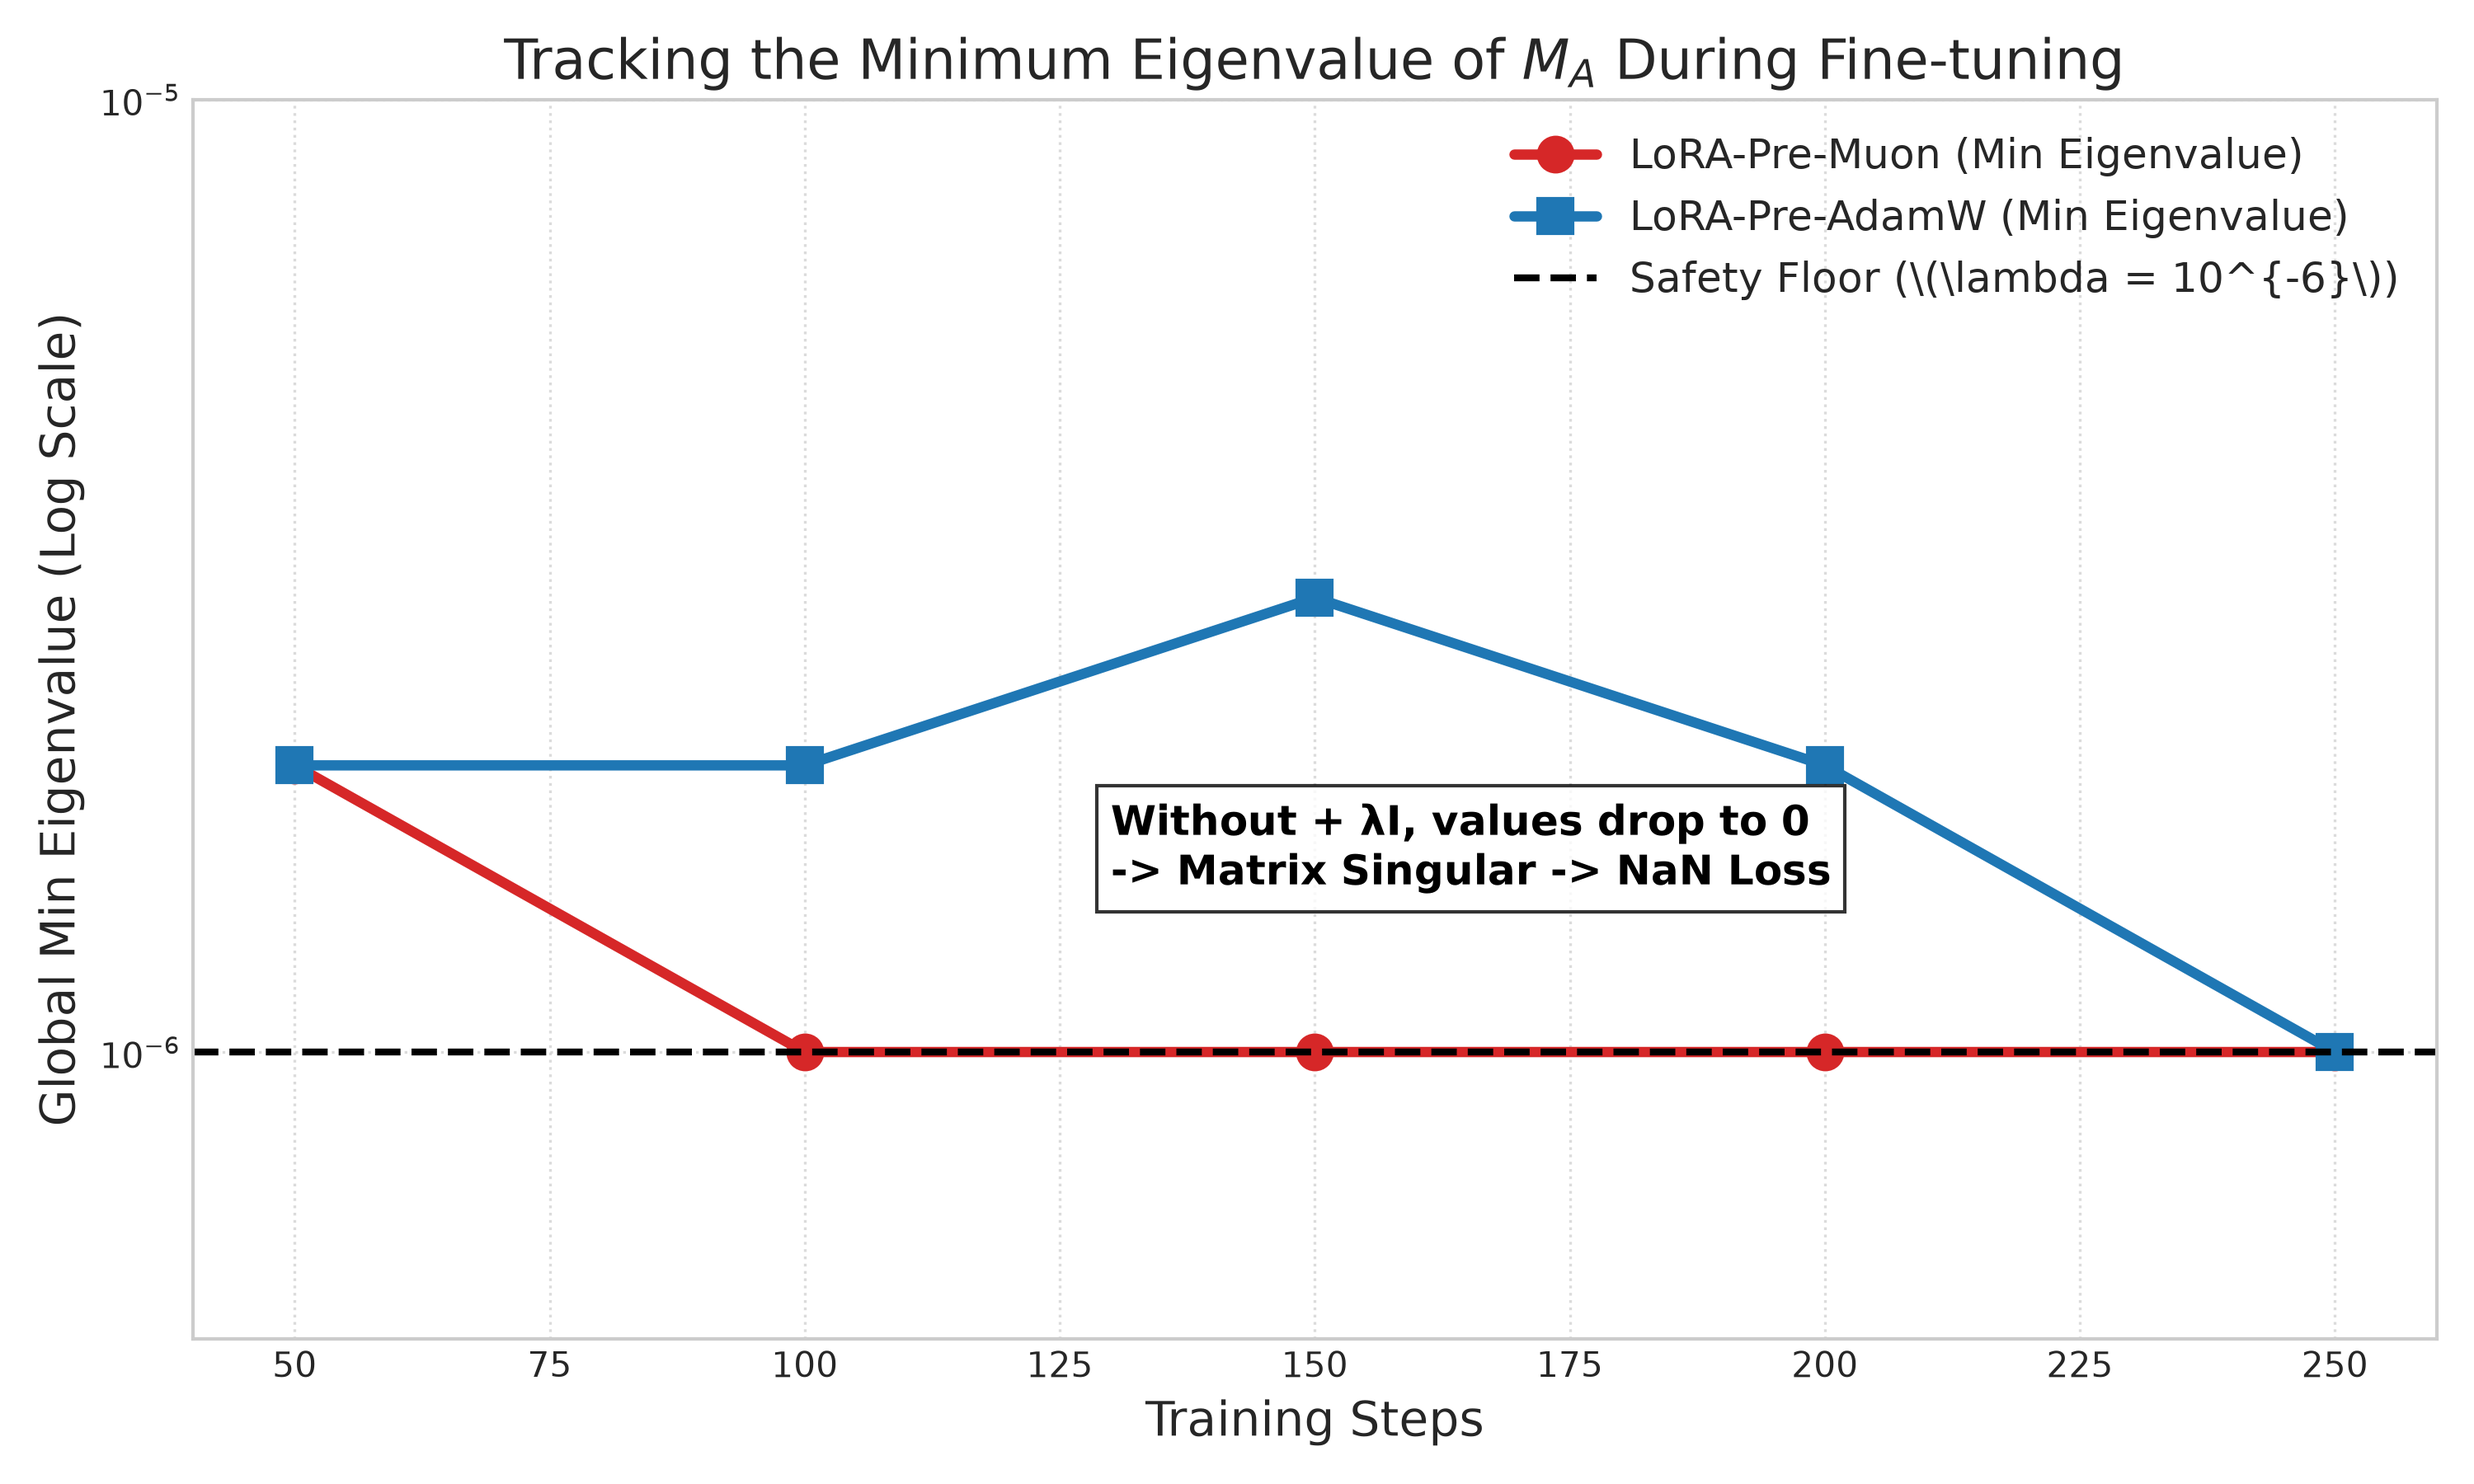
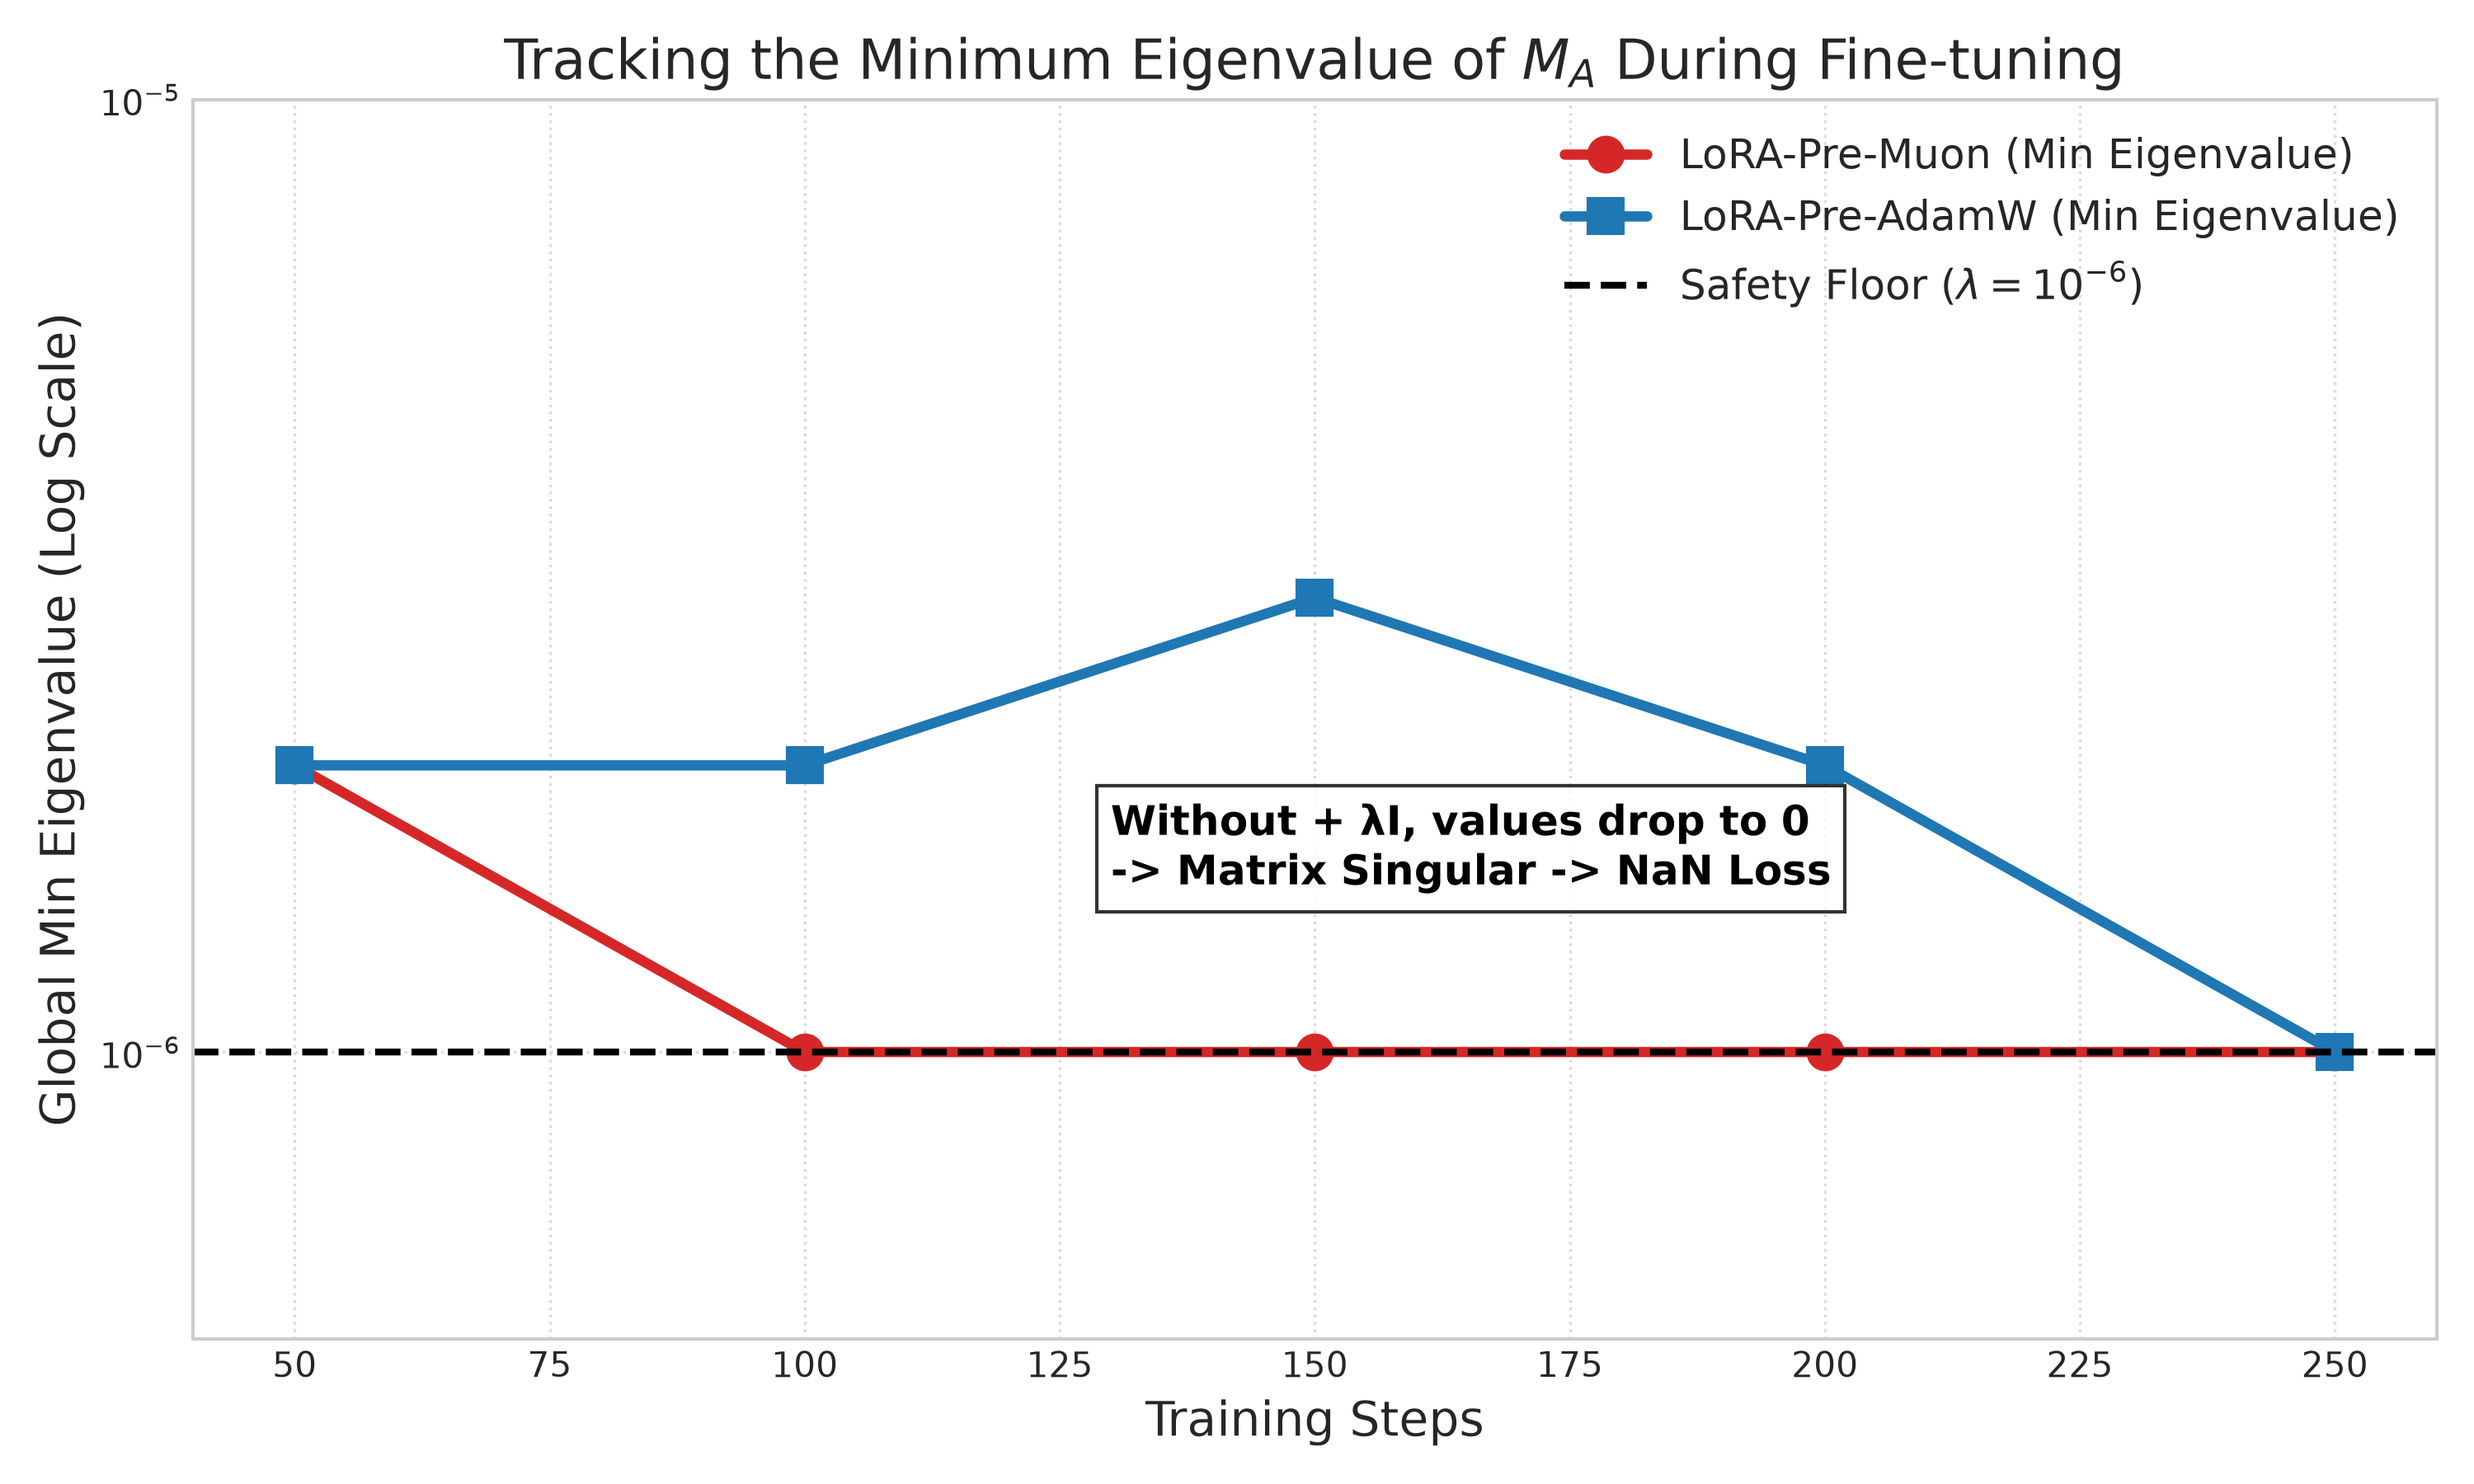
One producer per figure; remove duplicate baseline script; parameterize step budget; add run-average reference lines

Changed region(s): [[0.62, 0.0933, 0.961, 0.2178]]

diff --git a/plot_all_results.py b/plot_all_results.py
@@ -1,5 +1,7 @@
 import matplotlib.pyplot as plt
 import numpy as np
+import os
+os.makedirs('figures', exist_ok=True)
 
 try:
     plt.style.use('seaborn-v0_8-whitegrid')
@@ -19,23 +21,19 @@ pretrain_mem = [3864.4, 3479.2, 3664.3, 3487.7]
 ft_loss = [1.124, 1.030, 1.595, 1.572]
 ft_mem = [1321.1, 1125.8, 1111.7, 934.6]
 
-# 3. 秩效率数据
-ranks = [16, 32, 64]
-rank_loss = [6.614, 6.478, 6.350]
-
 # ===================================
 # 图 1 & 2：预训练对比
 # ===================================
 fig, (ax1, ax2) = plt.subplots(1, 2, figsize=(14, 5))
 ax1.bar(opt_names, pretrain_loss, color=colors)
-ax1.set_title('Pre-training Loss (2000 Steps)')
+ax1.set_title('Pre-training train_loss (2000 Steps, run avg)')
 ax1.set_ylim(5.0, 7.0)
 
 ax2.bar(opt_names, pretrain_mem, color=colors)
 ax2.set_title('Pre-training Peak Memory (MB)')
 ax2.set_ylim(3000, 4000)
 plt.tight_layout()
-plt.savefig('pretrain_family.png', dpi=300)
+plt.savefig('figures/pretrain_family.png', dpi=300)
 
 # ===================================
 # 图 3 & 4：微调对比
@@ -47,16 +45,7 @@ ax1.set_title('Fine-tuning Loss (250 Steps)')
 ax2.bar(opt_names, ft_mem, color=colors)
 ax2.set_title('Fine-tuning Peak Memory (MB)')
 plt.tight_layout()
-plt.savefig('finetune_family.png', dpi=300)
+plt.savefig('figures/finetune_family.png', dpi=300)
 
 # ===================================
-# 图 5：秩效率
-# ===================================
-plt.figure(figsize=(7, 5))
-plt.plot(ranks, rank_loss, marker='o', markersize=10, linewidth=3, color='#2ca02c')
-plt.title('Rank Efficiency (LoRA-Pre-AdamW)')
-plt.xlabel('Rank Size')
-plt.ylabel('Loss')
-plt.xticks(ranks)
-plt.savefig('rank_efficiency_final.png', dpi=300)
 print("所有终极图表已生成！")

diff --git a/plot_results.py b/plot_results.py
@@ -1,5 +1,7 @@
 import matplotlib.pyplot as plt
 import numpy as np
+import os
+os.makedirs('figures', exist_ok=True)
 
 # 设置画图风格 (兼容不同版本matplotlib)
 try:
@@ -27,15 +29,21 @@ plt.plot(steps_2000, lora_2000, label='LoRA-Pre-2000 Steps', marker='s', color='
 plt.plot(steps_5000, adamw_5000, label='AdamW-5000 Steps', marker='d', color='#d62728', linewidth=2)
 plt.plot(steps_5000, lora_5000, label='LoRA-Pre-5000 Steps', marker='^', color='#2ca02c', linewidth=2)
 
+# --- 2000 步两轮的 train_loss（整轮平均），只画在 0~2000 区间 ---
+plt.hlines(6.257, 0, 2000, colors='#1f77b4', linestyles='--', linewidth=1.5, zorder=4)
+plt.hlines(6.614, 0, 2000, colors='#ff7f0e', linestyles='--', linewidth=1.5, zorder=4)
+plt.text(2020, 6.257, '  AdamW run-avg 6.257', color='#1f77b4', fontsize=9, va='center')
+plt.text(2020, 6.614, '  LoRA-Pre run-avg 6.614', color='#ff7f0e', fontsize=9, va='center')
+
 plt.title('Training Loss vs. Steps (Pre-training SmolLM2-135M)', fontsize=14)
 plt.xlabel('Training Steps', fontsize=12)
-plt.ylabel('Training Loss', fontsize=12)
+plt.ylabel('Training Loss (10-step interval mean)', fontsize=12)
 plt.legend(fontsize=11)
 plt.grid(True, linestyle='--', alpha=0.7)
 
 # 保存图片
 plt.tight_layout()
-plt.savefig('loss_comparison.png', dpi=300)
+plt.savefig('figures/loss_comparison.png', dpi=300)
 print("图1已保存为 loss_comparison.png")
 
 # ==================== 图2：峰值显存柱状图 ====================
@@ -60,5 +68,5 @@ plt.ylim(0, 4500)
 
 # 保存图片
 plt.tight_layout()
-plt.savefig('memory_comparison.png', dpi=300)
+plt.savefig('figures/memory_comparison.png', dpi=300)
 print("图2已保存为 memory_comparison.png")

diff --git a/pretrain_adamw.py b/pretrain_adamw.py
@@ -5,7 +5,7 @@ from transformers import AutoConfig, AutoModelForCausalLM, AutoTokenizer, Traine
 
 # 1. 设置
 model_name = "HuggingFaceTB/SmolLM2-135M"
-output_dir = "./smollm2-pretrained-adamw-5000steps"
+output_dir = "./smollm2-pretrained-adamw-5000steps"     # 2000步；5000步
 device = "cuda" if torch.cuda.is_available() else "cpu"
 print(f"Using device: {device}")
 
@@ -37,10 +37,10 @@ training_args = TrainingArguments(
     per_device_train_batch_size=4,       # 6GB显存，设4比较安全
     gradient_accumulation_steps=4,
     learning_rate=5e-4,                  # 预训练学习率
-    warmup_steps=500,
+    warmup_steps=500,                    # 200步对应2000步，500步对应5000步
     logging_steps=10,
-    save_steps=2500,
-    save_total_limit=1,    # 只保留最近 1 个检查点，旧的自动删除
+    save_steps=2500,                     # 1000只在2000步时保存一次检查点；2500只在5000步时保存一次
+    save_total_limit=1,                  # 只保留最近 1 个检查点，旧的自动删除
     bf16=True,                           # 开启BF16节省显存
     report_to="none",
 )

diff --git a/plot_rank_efficiency.py b/plot_rank_efficiency.py
@@ -1,16 +1,22 @@
 import matplotlib.pyplot as plt
+import os
+os.makedirs('figures', exist_ok=True)
 
 # 秩消融实验数据
 ranks = [16, 32, 64]
 losses = [6.614, 6.478, 6.350]
 
 plt.figure(figsize=(7, 5))
-plt.plot(ranks, losses, marker='o', markersize=10, linewidth=3, color='#2ca02c')
-plt.title('Rank Efficiency: LoRA-Pre-AdamW (2000 Steps)')
+plt.plot(ranks, losses, marker='o', markersize=10, linewidth=3, color='#2ca02c',
+         label='LoRA-Pre-AdamW (r=16 = default)')
+plt.axhline(6.257, linestyle='--', linewidth=1.8, color='#1f77b4',
+            label='AdamW full-rank, run avg (6.257)')
+plt.title('Rank Efficiency: LoRA-Pre-AdamW (2000 Steps, run avg)')
 plt.xlabel('Rank Size (r)')
-plt.ylabel('Final Training Loss')
+plt.ylabel('Run-average Training Loss')        
 plt.xticks(ranks)
 plt.grid(True, linestyle='--', alpha=0.6)
+plt.legend(fontsize=10, loc='upper right')
 plt.tight_layout()
-plt.savefig('rank_efficiency.png', dpi=300)
+plt.savefig('figures/rank_efficiency.png', dpi=300)
 print("图已保存为 rank_efficiency.png")

diff --git a/plot_eigen.py b/plot_eigen.py
@@ -1,5 +1,7 @@
 import matplotlib.pyplot as plt
 import numpy as np
+import os
+os.makedirs('figures', exist_ok=True)
 
 # 设置画图风格
 try:
@@ -25,8 +27,8 @@ plt.plot(steps, adamw_min_eigs, marker='s', markersize=10, linewidth=3,
          color='#1f77b4', label='LoRA-Pre-AdamW (Min Eigenvalue)')
 
 # 3. 标出安全底线 (eps = 1e-6)
-plt.axhline(y=1e-6, color='black', linestyle='--', linewidth=2, label='Safety Floor (\(\lambda = 10^{-6}\))')
-
+plt.axhline(y=1e-6, color='black', linestyle='--', linewidth=2,
+            label=r'Safety Floor ($\lambda = 10^{-6}$)')
 # 4. 加上注解
 plt.text(130, 1.5e-6, "Without + λI, values drop to 0\n-> Matrix Singular -> NaN Loss", 
          fontsize=12, color='black', fontweight='bold',
@@ -42,5 +44,5 @@ plt.legend(fontsize=12, loc='upper right')
 plt.grid(True, linestyle=':', alpha=0.7)
 
 plt.tight_layout()
-plt.savefig('eigenvalue_stability.png', dpi=300)
+plt.savefig('figures/eigenvalue_stability.png', dpi=300)
 print("特征值稳定性图已保存为 eigenvalue_stability.png")

diff --git a/pretrain_lora_pre_adamw.py b/pretrain_lora_pre_adamw.py
@@ -5,7 +5,7 @@ from transformers import AutoConfig, AutoModelForCausalLM, AutoTokenizer, Traine
 
 # 1. 设置
 model_name = "HuggingFaceTB/SmolLM2-135M"
-output_dir = "./smollm2-pretrained-lora-pre-rank64"
+output_dir = "./smollm2-pretrained-lora-pre-rank16"
 device = "cuda" if torch.cuda.is_available() else "cpu"
 print(f"Using device: {device}")
 
@@ -52,7 +52,7 @@ lora_pre_adamw_optimizer = LoRAPreAdamW(
     model.parameters(), 
     lr=5e-4,           # 和原来预训练保持一致
     weight_decay=0.0,  # 和原来保持一致
-    rank=64            # 压缩秩，先设16，以后可以调
+    rank=16            # 压缩秩，先设16，再测32、64
 )
 
 # 8. 创建 Trainer，通过 optimizers 参数传入自定义优化器

diff --git a/plot_pareto_frontier.py b/plot_pareto_frontier.py
@@ -1,4 +1,6 @@
 import matplotlib.pyplot as plt
+import os
+os.makedirs('figures', exist_ok=True)
 
 data = {
     'AdamW': (1321.1, 45.0),
@@ -33,5 +35,5 @@ plt.grid(True, linestyle='--', alpha=0.6, zorder=0)
 plt.text(1300, 32, "Lower Memory\n& Higher Accuracy\nis Better", fontsize=12, color='red', fontweight='bold', ha='center')
 
 plt.tight_layout()
-plt.savefig('pareto_frontier.png', dpi=300)
+plt.savefig('figures/pareto_frontier.png', dpi=300)
 print("图已保存为 pareto_frontier.png")

diff --git a/plot_ft_accuracy.py b/plot_ft_accuracy.py
@@ -1,5 +1,7 @@
 import matplotlib.pyplot as plt
 import numpy as np
+import os
+os.makedirs('figures', exist_ok=True)
 
 # 数据准备
 labels = ['AdamW', 'LoRA-Pre\nAdamW', 'Standard\nMuon', 'LoRA-Pre\nMuon']
@@ -41,5 +43,5 @@ autolabel(rects2)
 autolabel(rects3)
 
 plt.tight_layout()
-plt.savefig('finetune_accuracy_combined.png', dpi=300)
+plt.savefig('figures/finetune_accuracy_combined.png', dpi=300)
 print("图已保存为 finetune_accuracy_combined.png")
